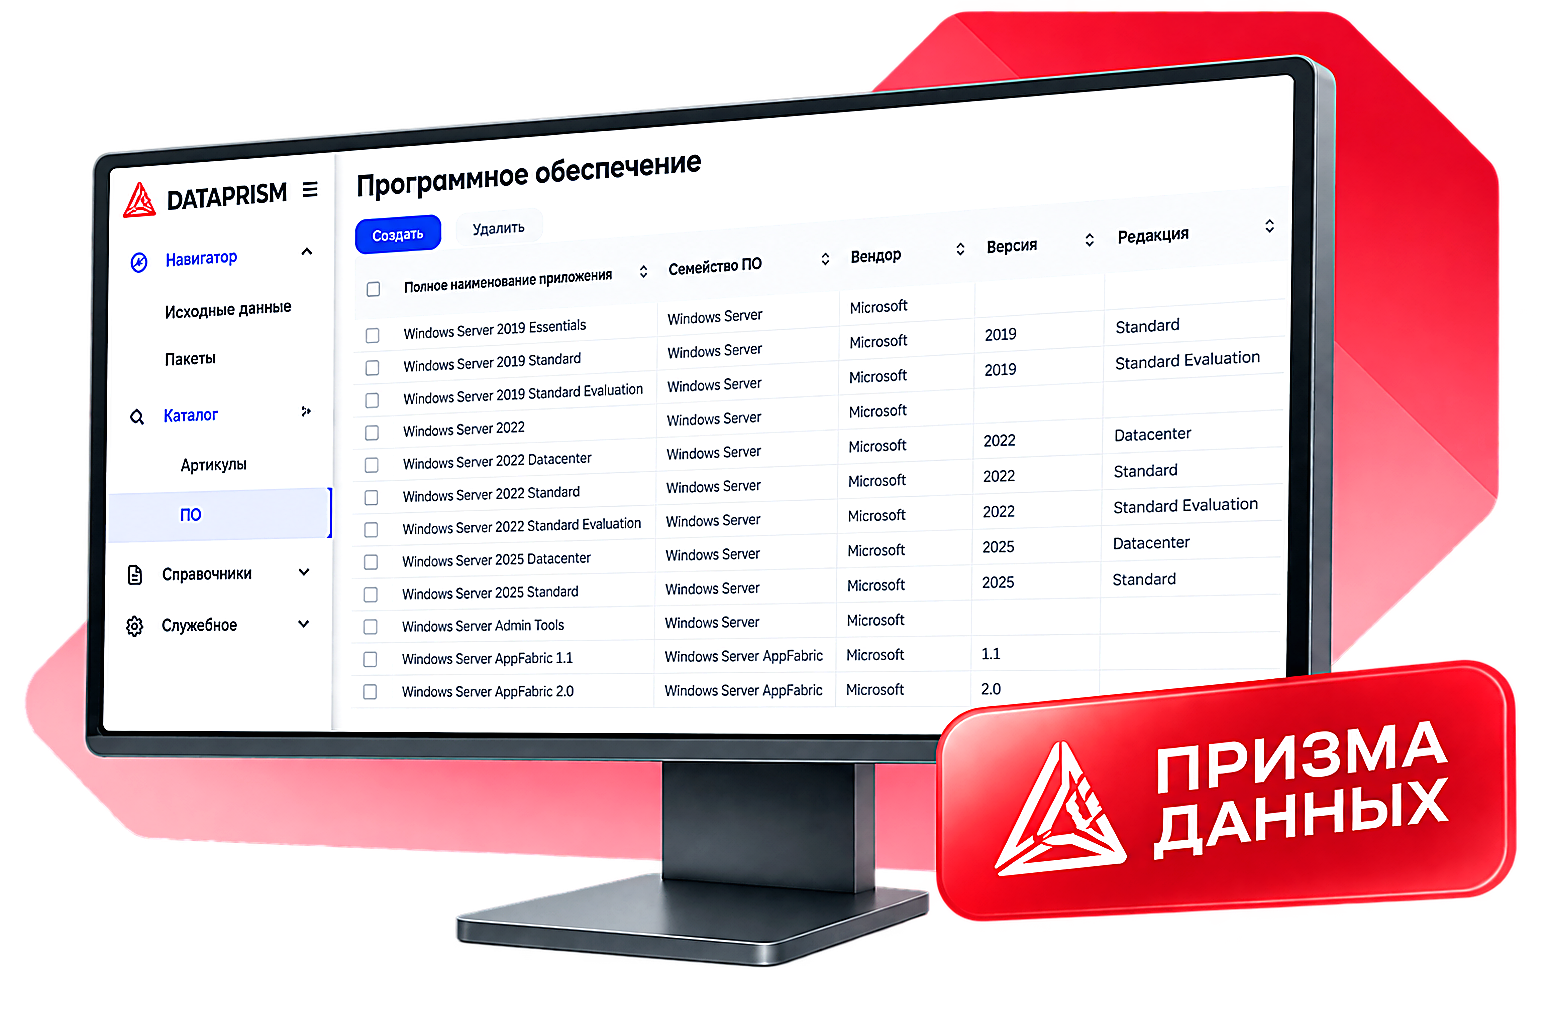
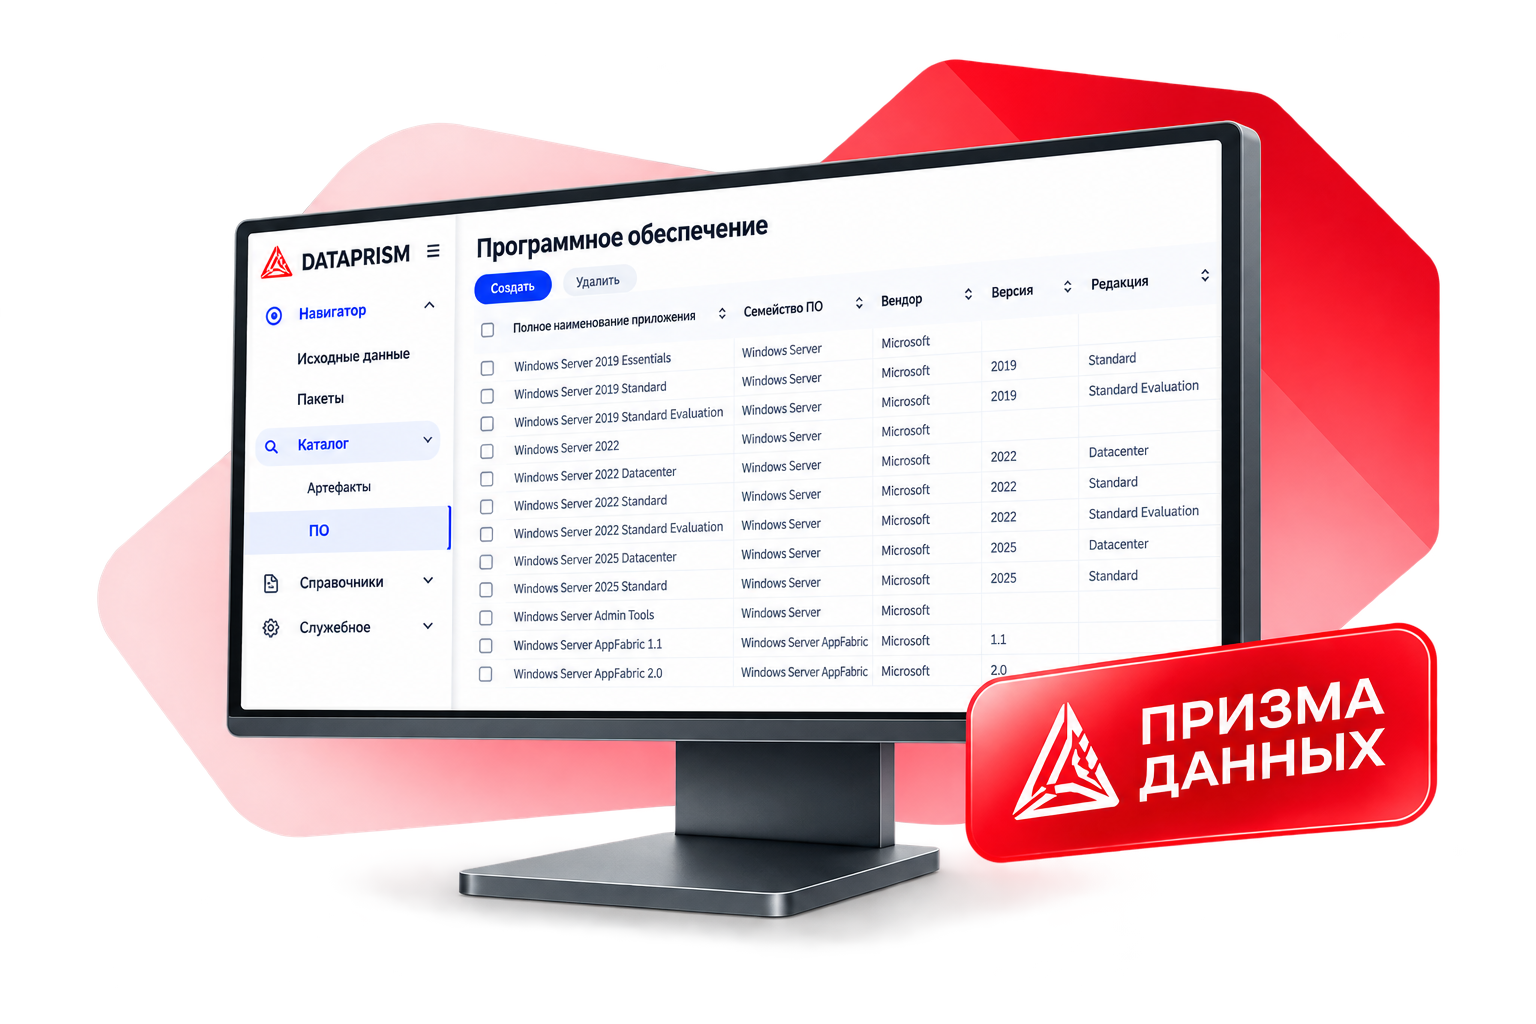
Restyle Prism hero: one bullet, feature chips, new monitor.

diff --git a/kabinet-diagnostiki/styles.css b/kabinet-diagnostiki/styles.css
@@ -1237,12 +1237,14 @@ td.forms-cell .chip{display:inline-block;margin:0 4px 4px 0}
 .sect.recon .rx-sh b{color:var(--ink);font-weight:750}
 
 .rc-hero{
-  display:grid;grid-template-columns:minmax(0,1.05fr) minmax(260px,.95fr);
-  gap:24px 32px;align-items:start;margin-bottom:28px;
-  padding:22px 22px;border-radius:14px;background:#FBFCFD;
-  border:1px solid var(--line-2);box-shadow:none;
+  display:grid;grid-template-columns:minmax(0,1.05fr) minmax(280px,1fr);
+  gap:28px 36px;align-items:center;margin-bottom:24px;
+  padding:0;border-radius:0;background:transparent;border:0;box-shadow:none;
 }
-.rc-results{margin:0 0 28px}
+.rc-results{
+  margin:0 0 28px;padding:22px 22px 20px;border-radius:14px;
+  background:#FBFCFD;border:1px solid var(--line-2);
+}
 .rc-results > .rx-panel__sec-title{margin-bottom:14px}
 @media(max-width:900px){.rc-hero{grid-template-columns:1fr}}
 .rc-title.rx-h{
@@ -1250,13 +1252,34 @@ td.forms-cell .chip{display:inline-block;margin:0 4px 4px 0}
   font-size:clamp(26px, 2.6vw, 32px);font-weight:800;letter-spacing:-.03em;line-height:1.15;color:var(--ink);
 }
 .rc-title__hi,.rc-hi{color:var(--red);font-weight:800}
-.rc-prism{margin-top:18px}
-.rc-prism__lead{margin:0 0 12px!important;max-width:58ch}
-.rc-prism__lead:last-child{margin-bottom:0!important}
+.rc-prism__bullets{
+  list-style:none;margin:16px 0 0;padding:0;max-width:52ch;
+}
+.rc-prism__bullets li{
+  position:relative;padding-left:18px;margin:0;
+  font-size:16px;line-height:1.55;font-weight:400;color:var(--ink-2);
+}
+.rc-prism__bullets li::before{
+  content:"";position:absolute;left:0;top:.62em;
+  width:7px;height:7px;border-radius:50%;background:var(--red);
+}
+.rc-feats{
+  display:flex;flex-wrap:wrap;gap:18px 22px;margin-top:22px;align-items:center;
+}
+.rc-feat{
+  display:inline-flex;align-items:center;gap:10px;
+  font-size:14.5px;font-weight:400;color:var(--ink-2);line-height:1.35;
+}
+.rc-feat__ico{
+  flex:0 0 auto;width:36px;height:36px;border-radius:10px;
+  display:inline-flex;align-items:center;justify-content:center;
+  background:var(--red-l);color:var(--red);
+}
+.rc-feat__ico svg{width:18px;height:18px;color:var(--red);stroke:var(--red)}
 .rc-hero__visual{justify-self:end;max-width:100%;margin-top:0}
 @media(max-width:900px){.rc-hero__visual{justify-self:center}}
 .rc-monitor{
-  display:block;width:100%;max-width:580px;height:auto;background:transparent;
+  display:block;width:100%;max-width:560px;height:auto;background:transparent;
   image-rendering:auto;-webkit-font-smoothing:antialiased;
 }
 

diff --git a/kabinet-diagnostiki/ui-reconcile.js b/kabinet-diagnostiki/ui-reconcile.js
@@ -119,14 +119,26 @@ function renderReconcile(rec, core) {
       <div class="rc-hero__text">
         <span class="dx-tag"><span class="dx-tag__ico" aria-hidden="true">${ICO.pulse}</span> Нормализация данных</span>
         <h3 class="rx-h rc-title">Сверка с эталонным каталогом ПО <span class="rc-title__hi">«Призма данных»</span></h3>
-        <div class="rc-prism">
-          <p class="rx-sh rc-prism__lead"><b class="rc-hi">«Призма данных»</b> — крупнейшая в России интеллектуальная база знаний о программном обеспечении и лицензиях:
-            более <b class="rc-hi">300&nbsp;000</b> наименований ПО и <b class="rc-hi">45&nbsp;000</b> артикулов (SKU).</p>
-          <p class="rx-sh rc-prism__lead"><b class="rc-hi">«Призма данных»</b> превращает хаотичные данные об установленном ПО в единый структурированный каталог программных активов.</p>
+        <ul class="rc-prism__bullets">
+          <li><b class="rc-hi">«Призма данных»</b> превращает хаотичные данные об установленном ПО в единый структурированный каталог программных активов.</li>
+        </ul>
+        <div class="rc-feats">
+          <div class="rc-feat">
+            <span class="rc-feat__ico" aria-hidden="true">${ICO.db}</span>
+            <span>Единый каталог ПО</span>
+          </div>
+          <div class="rc-feat">
+            <span class="rc-feat__ico" aria-hidden="true">${ICO.bolt}</span>
+            <span>Точные соответствия</span>
+          </div>
+          <div class="rc-feat">
+            <span class="rc-feat__ico" aria-hidden="true">${ICO.shield}</span>
+            <span>Порядок в данных и меньше рисков</span>
+          </div>
         </div>
       </div>
       <div class="rc-hero__visual">
-        <img class="rc-monitor" src="assets/prism-monitor.png?v=144" alt="Экран каталога «Призма данных»" width="1551" height="1014" decoding="async">
+        <img class="rc-monitor" src="assets/prism-monitor.png?v=159" alt="Экран каталога «Призма данных»" width="1536" height="1024" decoding="async">
       </div>
     </div>
 

diff --git a/kabinet-diagnostiki/index.html b/kabinet-diagnostiki/index.html
@@ -7,12 +7,12 @@
   <title>Кабинет диагностики — Клиника чистых данных | ИТМен</title>
   <meta name="description" content="Бесплатный кабинет диагностики базы ПО и лицензий: загрузите выгрузку, получите карту состояния базы. Данные не покидают ваш компьютер.">
   <link rel="icon" href="assets/logo.svg" type="image/svg+xml">
-  <link rel="stylesheet" href="styles.css?v=158">
+  <link rel="stylesheet" href="styles.css?v=159">
 </head>
 <body>
 
 <section class="hero">
-  <img class="hero__bg" src="assets/hero-clinic.png?v=158" alt="" width="1670" height="725" decoding="async" aria-hidden="true">
+  <img class="hero__bg" src="assets/hero-clinic.png?v=159" alt="" width="1670" height="725" decoding="async" aria-hidden="true">
   <div class="hero__veil" aria-hidden="true"></div>
 
   <div class="wrap hero__inner">
@@ -115,10 +115,10 @@
   </div>
 </footer>
 
-<script src="core-data.js?v=158"></script>
-<script src="engine.js?v=158"></script>
-<script src="reconcile.js?v=158"></script>
-<script src="ui.js?v=158"></script>
-<script src="ui-reconcile.js?v=158"></script>
+<script src="core-data.js?v=159"></script>
+<script src="engine.js?v=159"></script>
+<script src="reconcile.js?v=159"></script>
+<script src="ui.js?v=159"></script>
+<script src="ui-reconcile.js?v=159"></script>
 </body>
 </html>

diff --git a/kabinet-diagnostiki/ui.js b/kabinet-diagnostiki/ui.js
@@ -185,7 +185,8 @@ const ICO = {
   shield: '<svg viewBox="0 0 24 24" fill="none" stroke="currentColor" stroke-width="1.7"><path d="M12 3.5l7 2.5v5.2c0 4.2-2.9 7.8-7 9.3-4.1-1.5-7-5.1-7-9.3V6L12 3.5z"/><path d="M9 12l2 2 4-4"/></svg>',
   plus: '<svg viewBox="0 0 24 24" fill="none" stroke="currentColor" stroke-width="2.2"><path d="M12 5v14M5 12h14"/></svg>',
   upload: '<svg viewBox="0 0 24 24" fill="none" stroke="currentColor" stroke-width="1.7"><path d="M8 4h7l3 3v13H8V4z"/><path d="M15 4v3h3"/><path d="M12 18v-7M9.5 13.5 12 11l2.5 2.5"/></svg>',
-  gear: '<svg viewBox="0 0 24 24" fill="none" stroke="currentColor" stroke-width="1.7"><circle cx="12" cy="12" r="3"/><path d="M12 3.5v2.2M12 18.3v2.2M3.5 12h2.2M18.3 12h2.2M6.2 6.2l1.6 1.6M16.2 16.2l1.6 1.6M17.8 6.2l-1.6 1.6M7.8 16.2l-1.6 1.6"/></svg>'
+  gear: '<svg viewBox="0 0 24 24" fill="none" stroke="currentColor" stroke-width="1.7"><circle cx="12" cy="12" r="3"/><path d="M12 3.5v2.2M12 18.3v2.2M3.5 12h2.2M18.3 12h2.2M6.2 6.2l1.6 1.6M16.2 16.2l1.6 1.6M17.8 6.2l-1.6 1.6M7.8 16.2l-1.6 1.6"/></svg>',
+  bolt: '<svg viewBox="0 0 24 24" fill="none" stroke="currentColor" stroke-width="1.8"><path d="M13 3 6.5 13h5L11 21l6.5-10h-5L13 3z"/></svg>'
 };
 
 function rxImpact(items) {
